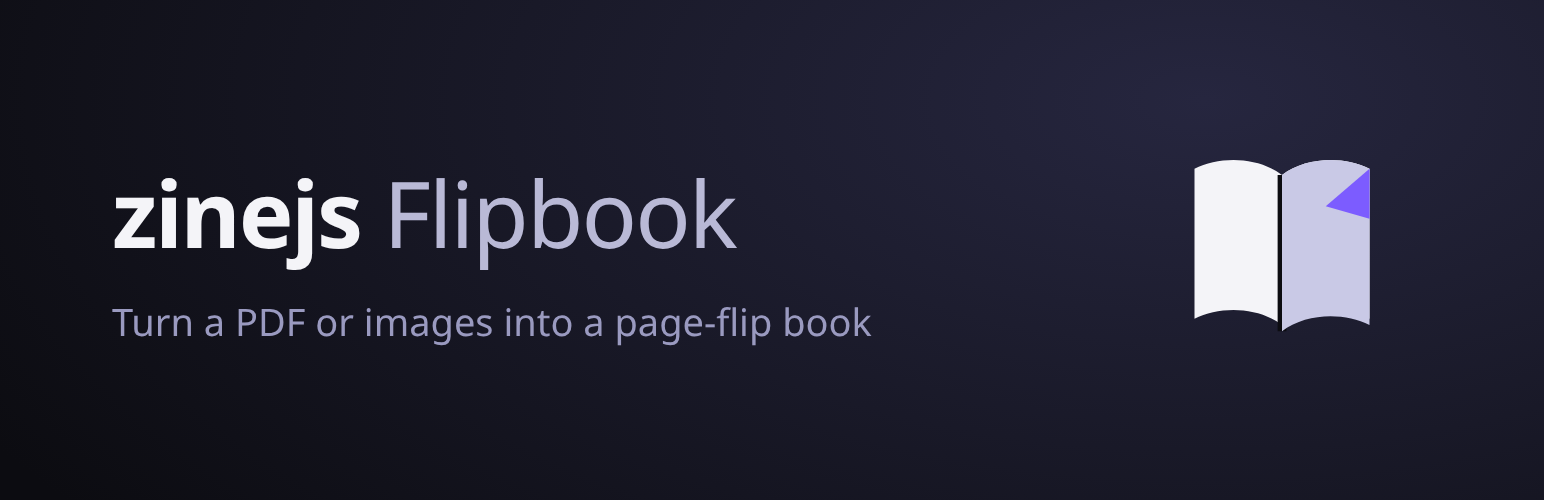
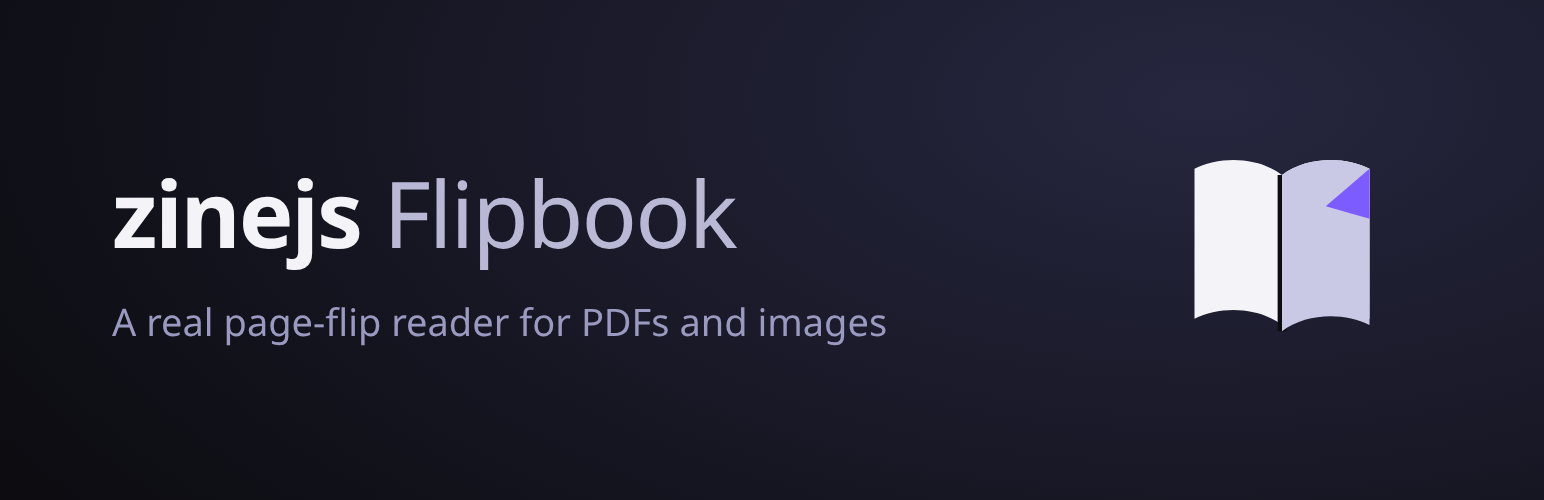
chore(wp): reword tagline to "A real page-flip reader for PDFs and images"

Changed region(s): [[0.0622, 0.6, 0.5907, 0.69]]

diff --git a/integrations/wordpress/zinejs.php b/integrations/wordpress/zinejs.php
@@ -2,7 +2,7 @@
 /**
  * Plugin Name:       zinejs Flipbook
  * Plugin URI:        https://zinejs.com
- * Description:       Turn a PDF or a set of images into an interactive page-flip book, via a block or the [zine] shortcode.
+ * Description:       A real page-flip reader for PDFs and images, via a block or the [zine] shortcode.
  * Version:           1.0.0
  * Requires at least: 6.3
  * Requires PHP:      7.4
